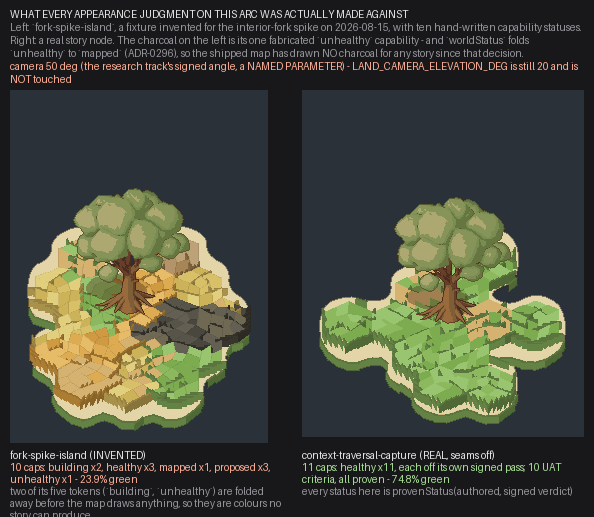
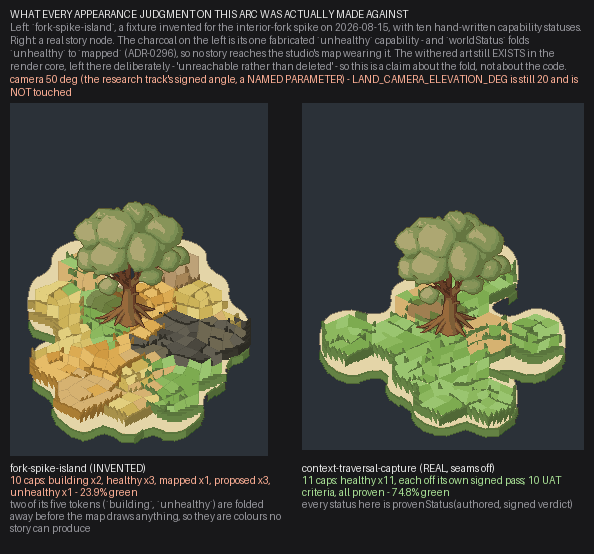
fix(chapter2): scope the charcoal claim to the studio's fold, and assert it
"The app cannot draw charcoal" was too broad, and it was the pass's headline.
The truth is narrower and now checked three ways: `presentStories` is the ONE
fold the studio's world sits behind (its only callers are TreeView and
worldStatus itself); the app's own legend states the consequence outright --
"Since ADR-0296 withdrew the withered form from the picture, every rendered
status is an alive one"; and the withered machinery still EXISTS in the render
core, left there deliberately, "unreachable rather than deleted".

So the claim is about the fold, never about the code not containing the
colour. Corrected in the README and in the picture's own header, since the
picture is what gets looked at.

Also fixes a caption clipped by the sheet's bottom edge, and cross-references
the sibling lane's determinism result (#1379) -- it proved blender_land.py
deterministic under load, which is what makes composing from committed pieces
safe rather than merely convenient.

verify.py 47/47 · verify_refusal.py 14/14.

Changed region(s): [[0.0, 0.3714, 0.4848, 1.0], [0.4848, 0.3714, 1.0, 0.9594], [0.0, 0.0, 1.0, 0.1857]]

diff --git a/docs/research/chapter2-healthy-island-2026-08-16/verify.py b/docs/research/chapter2-healthy-island-2026-08-16/verify.py
@@ -156,6 +156,32 @@ check("the pass's declared RENDERED vocabulary excludes both folded-away tokens"
       "building" not in P.RENDERED_VOCABULARY and "unhealthy" not in P.RENDERED_VOCABULARY,
       f"{list(P.RENDERED_VOCABULARY)}")
 
+# THE SCOPE OF THE CLAIM, asserted rather than trusted. "The map cannot draw charcoal" is true of the
+# STUDIO's world fold and NOT of the render core, whose withered machinery `worldStatus.ts` says is
+# left in place "unreachable rather than deleted". Both halves are checked, because a claim this
+# pass's headline rests on must not be one a reader has to take on trust — and the over-broad version
+# ("the app cannot draw it") was in this README until this check was written.
+STUDIO_SRC = os.path.join(REPO, "apps", "studio", "src")
+callers = []
+for root, _dirs, files in os.walk(STUDIO_SRC):
+    for f in files:
+        if not f.endswith((".ts", ".tsx")) or ".test." in f:
+            continue
+        body = open(os.path.join(root, f), encoding="utf-8").read()
+        if re.search(r"\bpresentStories\s*\(", body):
+            callers.append(os.path.relpath(os.path.join(root, f), REPO).replace(os.sep, "/"))
+check("`presentStories` is the ONE fold the studio's world sits behind",
+      sorted(set(callers)) == ["apps/studio/src/components/TreeView.tsx",
+                               "apps/studio/src/lib/worldStatus.ts"],
+      f"{sorted(set(callers))}")
+legend = open(os.path.join(STUDIO_SRC, "components", "WorldLegend.tsx"), encoding="utf-8").read()
+check("...and the app's own legend states the consequence: every rendered status is an ALIVE one",
+      "every rendered status is an alive one" in " ".join(legend.split()).lower())
+core = open(os.path.join(REPO, "packages", "forest-world", "src", "scene.ts"), encoding="utf-8").read()
+check("SCOPE: the withered machinery still EXISTS in the render core - unreachable, not deleted",
+      "'unhealthy'" in core and "withered" in core,
+      "so the claim is about the studio's fold, never about the code not containing the colour")
+
 # --- the claim about the fixture, asserted rather than asserted-in-prose ---------------------------
 fixture = json.load(open(os.path.join(GRASS, "island.json")))
 outside = sorted({s for s in fixture["capStatuses"] if s not in P.RENDERED_VOCABULARY})

diff --git a/docs/research/chapter2-healthy-island-2026-08-16/compose_healthy.py b/docs/research/chapter2-healthy-island-2026-08-16/compose_healthy.py
@@ -576,13 +576,15 @@ im1.save(os.path.join(OUT, "healthy-island.png"))
 fw, fh = b_fix.size
 sw, sh = b_surface.size
 cw, ch = max(fw, sw), max(fh, sh)
-im2, dr2, TOP2 = sheet(PAD + 2 * (cw + PAD), HDR + ch + CAP + 34,
+im2, dr2, TOP2 = sheet(PAD + 2 * (cw + PAD), HDR + ch + CAP + 58,
                        "WHAT EVERY APPEARANCE JUDGMENT ON THIS ARC WAS ACTUALLY MADE AGAINST",
                        "Left: `fork-spike-island`, a fixture invented for the interior-fork spike "
                        "on 2026-08-15, with ten hand-written capability statuses. Right: a real "
                        "story node. The charcoal on the left is its one fabricated `unhealthy` "
                        "capability - and `worldStatus` folds `unhealthy` to `mapped` (ADR-0296), so "
-                       "the shipped map has drawn NO charcoal for any story since that decision.",
+                       "no story reaches the studio's map wearing it. The withered art still EXISTS "
+                       "in the render core, left there deliberately - 'unreachable rather than "
+                       "deleted' - so this is a claim about the fold, not about the code.",
                        CAM)
 _fix_mix = ", ".join(
     f"{s} x{list(FIXTURE['capStatuses']).count(s)}" for s in sorted(set(FIXTURE["capStatuses"])))

diff --git a/docs/research/chapter2-healthy-island-2026-08-16/README.md b/docs/research/chapter2-healthy-island-2026-08-16/README.md
@@ -23,11 +23,16 @@ page has no standing to make it (ADR-0070 stage 2).
 1. **The story node was `fork-spike-island` — a fixture**, invented for the interior-fork spike on
    2026-08-15 and carried unchanged through every appearance judgment this arc has made: the grass
    pass (#1371), the hex-lines pass (#1372), the dressing pass (#1373).
-2. **Its charcoal is not merely invented — it is a colour the app cannot draw.** The fixture's tenth
-   capability is `unhealthy`, and `worldStatus` folds `unhealthy → mapped` (ADR-0296,
-   owner-directed: *the world draws no withered form*). The shipped map has drawn no charcoal for any
-   story, in any state, since that decision. Two of the fixture's five tokens are like this —
-   `building → proposed` as well (ADR-0038).
+2. **Its charcoal is not merely invented — it is a colour the studio's map cannot reach.** The
+   fixture's tenth capability is `unhealthy`, and `worldStatus` folds `unhealthy → mapped` (ADR-0296,
+   owner-directed: *the world draws no withered form*). Every story the studio's forest map draws
+   passes through `presentStories`, and the app's own legend says the consequence outright: *"Since
+   ADR-0296 withdrew the withered form from the picture, every rendered status is an alive one"*
+   (`WorldLegend.tsx`). Two of the fixture's five tokens are like this — `building → proposed` as
+   well (ADR-0038). **Scope this precisely:** the withered/dead-flora machinery in the render CORE
+   (`packages/forest-world/src/scene.ts`) is intact and `worldStatus.ts` says it is left there
+   deliberately — *"unreachable rather than deleted"*. So the charcoal exists in the code; what it
+   cannot do is arrive through the fold every studio world surface sits behind.
 3. **And no capability anywhere in the corpus is authored `healthy` — 0 of 244.** Green derives from
    a SIGNED VERDICT and never from authored paint (ADR-0040). A healthy story is found in the STORE,
    not in the frontmatter, and looking in the frontmatter is what would have sent this increment
@@ -181,7 +186,12 @@ The whole diff is `docs/research/chapter2-healthy-island-2026-08-16/**`. Asserte
 promised: `verify.py` runs `git diff` + `git ls-files --others` and fails if anything outside
 `docs/research/` moved, and separately re-reads `camera.ts` to confirm the constant.
 
-**No Blender frame was rendered, and that is a proved property rather than a convenience.**
+**No Blender frame was rendered, and that is a proved property rather than a convenience.** (The
+sibling lane settled the question that would otherwise hang over reusing committed pieces:
+[`chapter2-land-render-determinism-2026-08-16`](../chapter2-land-render-determinism-2026-08-16/)
+proved `blender_land.py`'s render **deterministic** under real concurrent load — the suspected
+adaptive-sampling drift was a `--samples` difference between two lanes, 32 against 48. So the
+committed pieces this pass composes from are not a measurement of what else the box was doing.)
 `blender_land.py` renders one sprite per variant-A shape class (six kites) plus 16 wall headings, and
 those kite shapes are a property of the HEX LATTICE, not of which hexes a story claims. The composer
 compares this island's six shape keys against the ones the committed pieces were rendered for and
